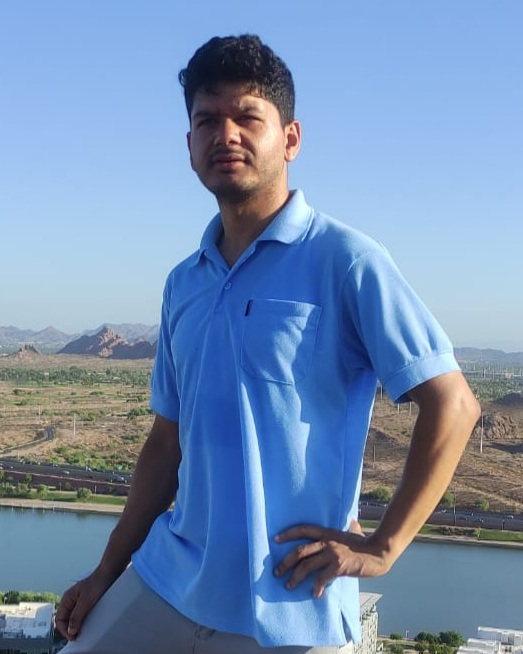
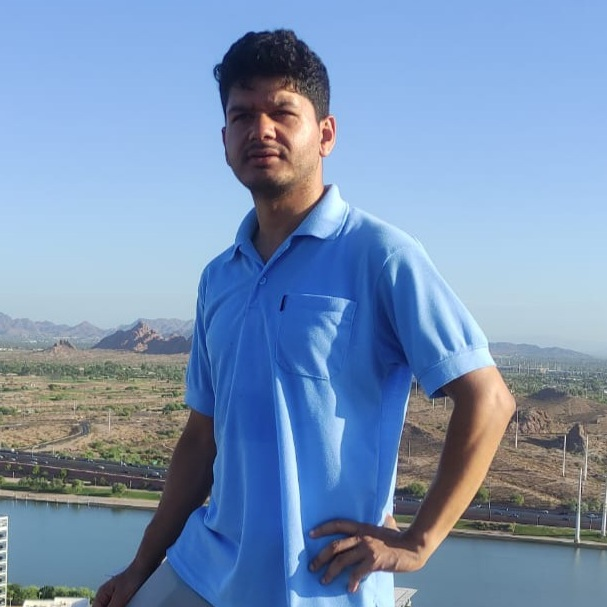
Added Brennen's picture and about-info, cropped Rekha, Bibek and Carolina's pictures and added Rekha's bio.

diff --git a/team/_posts/2023-9-19-bibek-gyawali.md b/team/_posts/2023-9-19-bibek-gyawali.md
@@ -5,7 +5,7 @@ category: member
 position: Rotation Student
 nickname: Bibek
 handle: Bibek
-email: 
+email: bgyawal2@asu.edu
 twitter: 
 github: 
 scholar: 
@@ -13,4 +13,5 @@ image: /assets/images/team/bibek.jpg
 cv: 
 alum: false
 ---
-A physics graduate seeking to bridge the worlds of Physics and Biology via the pursuit of truth and knowledge! I am deeply vested in learning the physics and biology behind life itself - in essence how the inanimate atoms and molecules give rise to vibrant, conscious behavioral patterns and ultimately life.
+I'm a physics graduate excited about research at the intersection of Physics and Biology. 
+I am deeply interested in learning how the inanimate atoms and molecules give rise to the different behaviors and biological patterns. 

diff --git a/team/_posts/2023-9-20-rekha-joshi.md b/team/_posts/2023-9-20-rekha-joshi.md
@@ -5,7 +5,7 @@ category: member
 position: Rotation Student
 nickname: Rekha
 handle: rekha
-email: 
+email: rjoshi44@asu.edu
 twitter: 
 github:
 scholar: 
@@ -13,3 +13,4 @@ image: /assets/images/team/rekha.jpg
 cv:
 alum: false
 ---
+I'm a graduate student pursuing a Ph.D. in Physics with a focus on biophysics. I'm deeply intrigued by the way physics interacts with the living world, and I'm particularly interested in experimental research to explore this connection. My aim is to unravel how the fundamental principles of physics are linked to the workings of living organisms, and I'm excited to contribute to both fields as I embark on this journey.

diff --git a/team/_posts/2023-9-28-brennen-wise.md b/team/_posts/2023-9-28-brennen-wise.md
@@ -1,0 +1,15 @@
+---
+layout: member
+title: "Brennen Wise"
+category: member 
+position: Undergraduate Student
+nickname: brennen
+handle: brennen
+email: 
+twitter: 
+github: 
+scholar: 
+image: /assets/images/team/brennen.jpg
+cv:
+alum: false
+---
